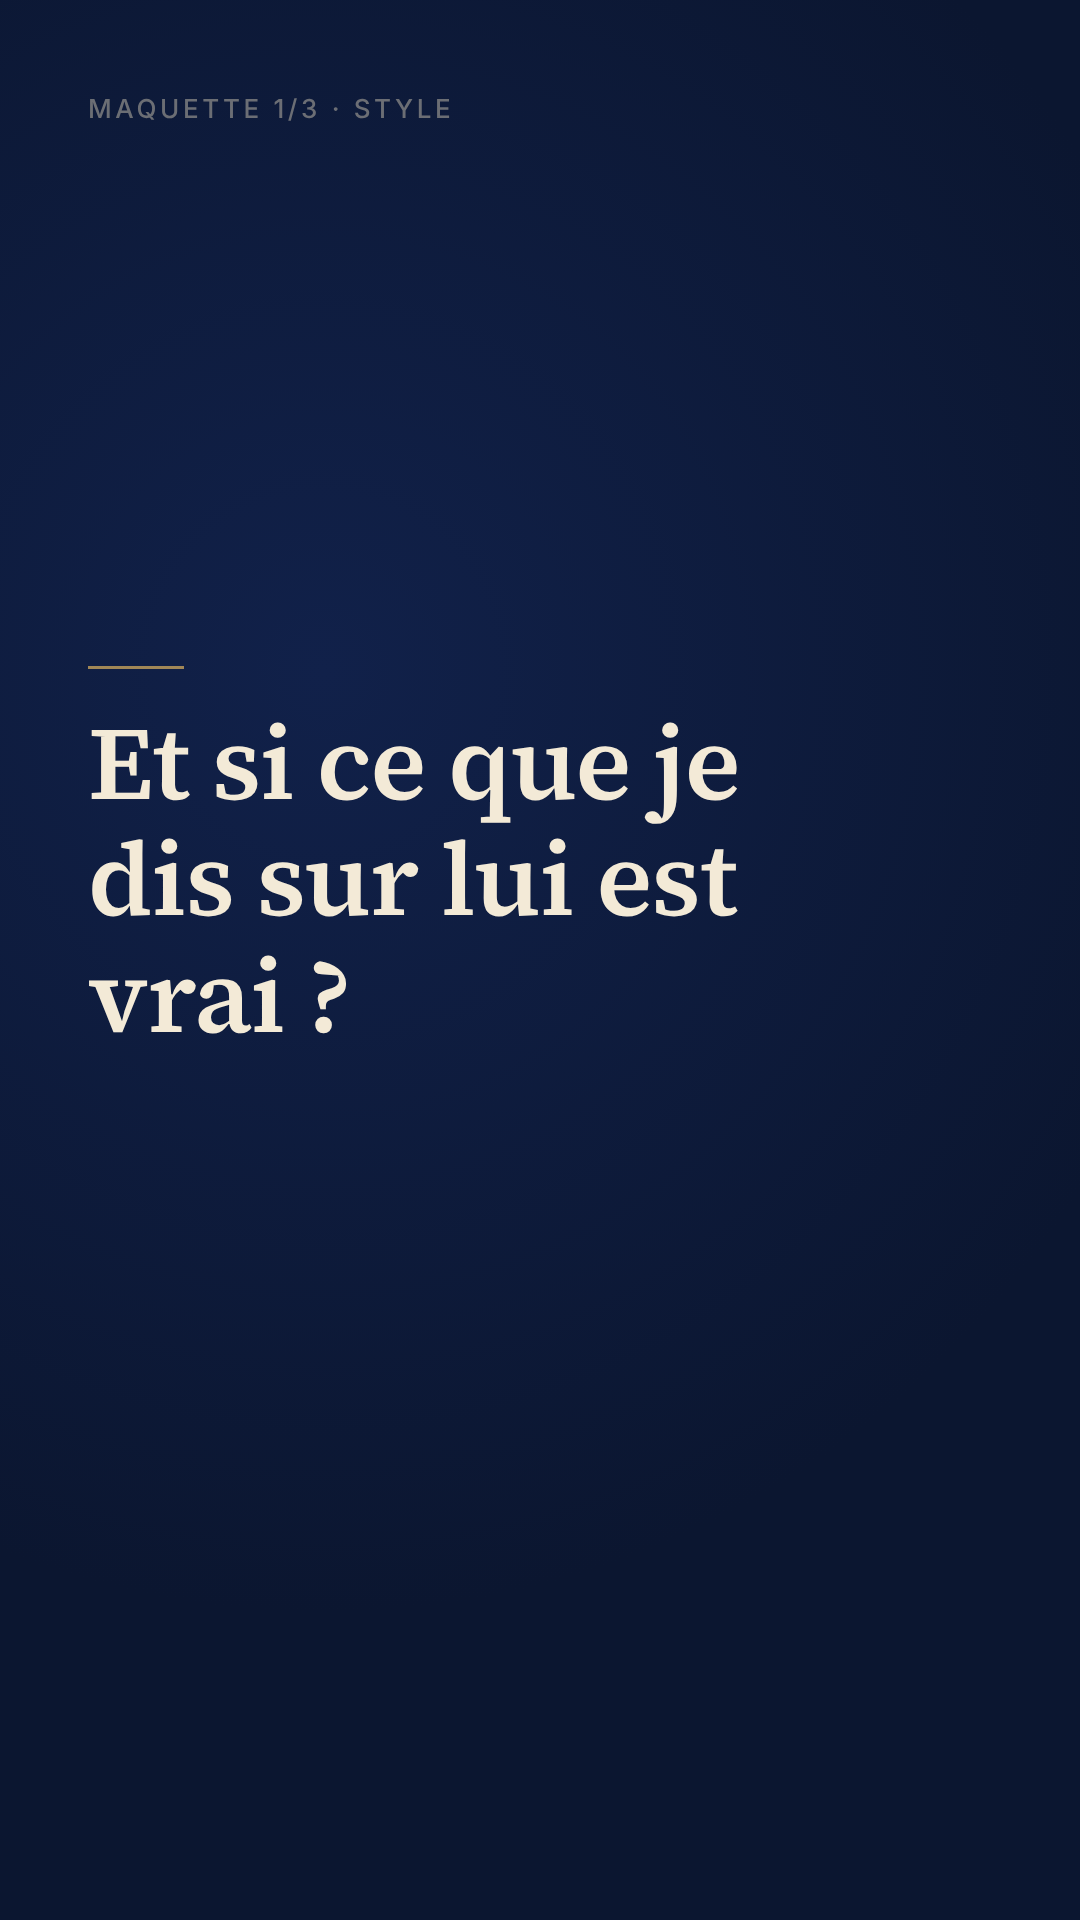
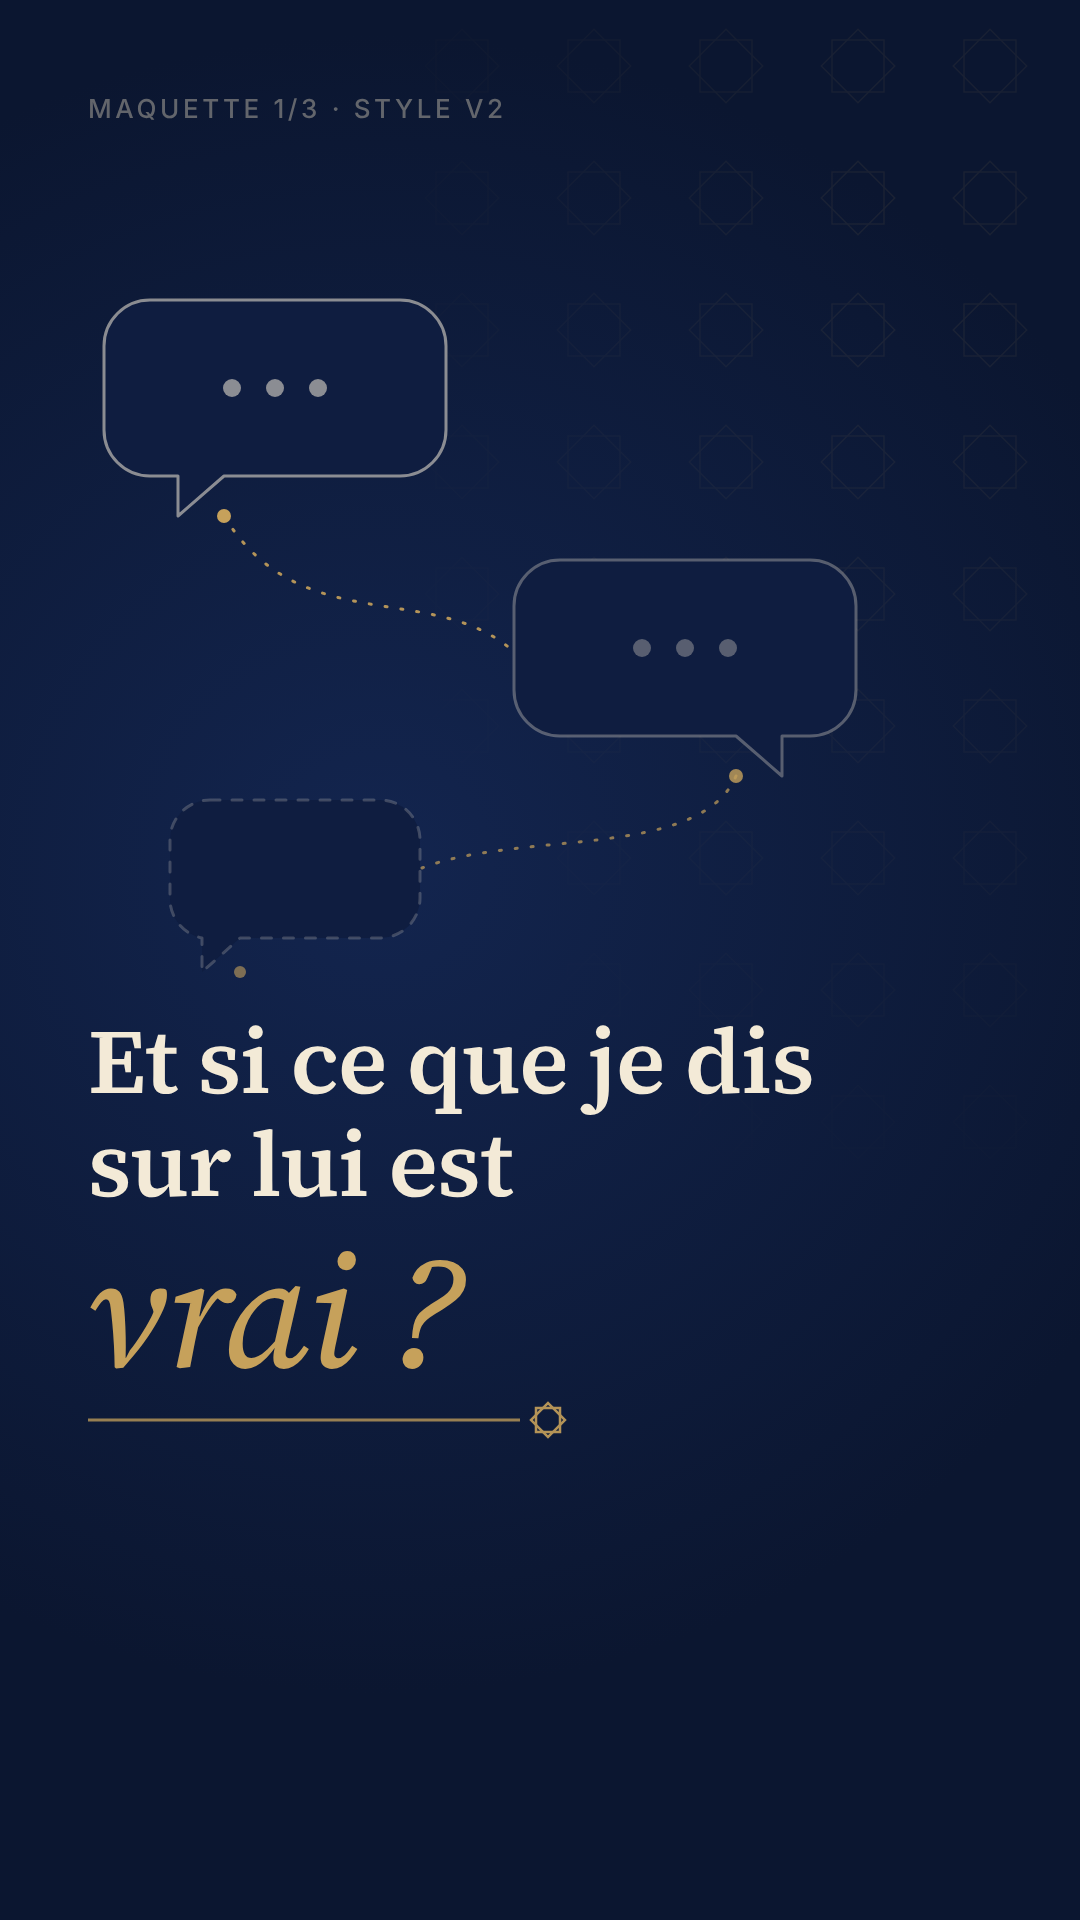
Épisode 1 : maquettes de style v2 (fil de la parole, étoile à huit branches)
Accroche avec bulles abstraites et « vrai ? » en doré, citation du hadith
dans une bulle, composition coranique encadrée avec emplacements réservés.
Consignes techniques déplacées dans styleframes/NOTES.md. Script inchangé.

Claude-Session: https://claude.ai/code/session_01EKcUgrFqQZhvCf1Hyer1Sd

diff --git a/ep01-medisance/styleframes/03-coran.html b/ep01-medisance/styleframes/03-coran.html
@@ -1,22 +1,59 @@
 <!doctype html>
-<html lang="fr"><head><meta charset="utf-8"><link rel="stylesheet" href="style.css"><title>03 coran</title></head>
+<html lang="fr"><head><meta charset="utf-8"><link rel="stylesheet" href="style.css"><title>03 coran</title>
+<style>
+  .label { left: 88px; width: 832px; top: 378px; text-align: center; }
+  .tag { font: 500 24px/1 "Inter", sans-serif; letter-spacing: .14em; text-transform: uppercase; color: var(--ivoire-doux); opacity: .75; }
+  .tag-ar { left: 88px; width: 832px; top: 724px; text-align: center; }
+  .tag-fr { left: 88px; width: 832px; top: 1236px; text-align: center; }
+  .ref { left: 88px; width: 832px; top: 1318px; text-align: center; }
+</style></head>
 <body>
-  <div class="maquette">Maquette 3/3 · style</div>
-  <div class="zone" style="gap:44px">
-    <p class="etiquette">Coran · 49:12 · extrait</p>
-    <div class="reserve rtl">
-      <p class="titre">Texte arabe · emplacement réservé</p>
-      <div class="ligne" style="width:100%;height:40px"></div>
-      <div class="ligne" style="width:82%;height:40px"></div>
-      <p class="note">À copier par script depuis la source vérifiée<br>(mushaf, lecture Hafs) · police coranique, RTL</p>
-    </div>
-    <div class="reserve">
-      <p class="titre">Traduction · emplacement réservé</p>
-      <div class="ligne" style="width:100%"></div>
-      <div class="ligne" style="width:94%"></div>
-      <div class="ligne" style="width:72%"></div>
-      <p class="note">Extrait à relire sur l'édition Hamidullah retenue<br>avant d'être affiché</p>
-    </div>
-    <p class="reference"><strong>Traduction du sens</strong><br>Muhammad Hamidullah</p>
-  </div>
+  <svg class="decor" viewBox="0 0 1080 1920" aria-hidden="true">
+    <defs>
+      <pattern id="trame" width="132" height="132" patternUnits="userSpaceOnUse">
+        <g transform="translate(66 66)" fill="none" stroke="#c6a15b" stroke-width="1.4">
+          <rect x="-26" y="-26" width="52" height="52"/><rect x="-26" y="-26" width="52" height="52" transform="rotate(45)"/>
+        </g>
+      </pattern>
+      <radialGradient id="fondu" cx="50%" cy="50%" r="62%"><stop offset=".55" stop-color="#fff" stop-opacity="0"/><stop offset="1" stop-color="#fff" stop-opacity="1"/></radialGradient>
+      <mask id="m"><rect width="1080" height="1920" fill="url(#fondu)"/></mask>
+      <g id="etoile"><rect x="-14" y="-14" width="28" height="28"/><rect x="-14" y="-14" width="28" height="28" transform="rotate(45)"/></g>
+    </defs>
+    <rect width="1080" height="1920" fill="url(#trame)" opacity=".08" mask="url(#m)"/>
+
+    <!-- Cadre ornemental : double filet doré, étoiles aux angles -->
+    <rect x="88" y="300" width="832" height="1140" rx="28" fill="#0f1d40" fill-opacity=".6" stroke="#c6a15b" stroke-opacity=".6" stroke-width="2.5"/>
+    <rect x="104" y="316" width="800" height="1108" rx="18" fill="none" stroke="#c6a15b" stroke-opacity=".22" stroke-width="1.5"/>
+    <g fill="#0b1630" stroke="#c6a15b" stroke-width="2.5">
+      <use href="#etoile" x="88" y="300"/><use href="#etoile" x="920" y="300"/>
+      <use href="#etoile" x="88" y="1440"/><use href="#etoile" x="920" y="1440"/>
+    </g>
+
+    <!-- Zone arabe : emplacement réservé (texte à insérer après vérification) -->
+    <g fill="#f3ead7" fill-opacity=".13">
+      <rect x="180" y="480" width="650" height="52" rx="26"/>
+      <rect x="290" y="580" width="540" height="52" rx="26"/>
+    </g>
+
+    <!-- Séparateur : le fil de la parole arrive sur l'étoile centrale -->
+    <path d="M28 820 C 120 820, 140 900, 250 900" fill="none" stroke="#c6a15b" stroke-width="3" stroke-dasharray="2 14"/>
+    <circle cx="28" cy="820" r="7" fill="#c6a15b"/>
+    <line x1="250" y1="900" x2="512" y2="900" stroke="#c6a15b" stroke-opacity=".6" stroke-width="2"/>
+    <line x1="568" y1="900" x2="830" y2="900" stroke="#c6a15b" stroke-opacity=".6" stroke-width="2"/>
+    <g transform="translate(540 900)" fill="none" stroke="#c6a15b" stroke-width="2.5"><use href="#etoile"/></g>
+
+    <!-- Zone traduction : emplacement réservé -->
+    <g fill="#f3ead7" fill-opacity=".13">
+      <rect x="170" y="990" width="670" height="30" rx="15"/>
+      <rect x="200" y="1048" width="610" height="30" rx="15"/>
+      <rect x="170" y="1106" width="670" height="30" rx="15"/>
+      <rect x="290" y="1164" width="430" height="30" rx="15"/>
+    </g>
+  </svg>
+
+  <div class="maquette">Maquette 3/3 · style v2</div>
+  <p class="bloc etiquette label">Coran · 49:12 · extrait</p>
+  <p class="bloc tag tag-ar">Texte arabe · emplacement réservé</p>
+  <p class="bloc tag tag-fr">Traduction · emplacement réservé</p>
+  <p class="bloc reference ref"><strong>Traduction du sens</strong><br>Muhammad Hamidullah</p>
 </body></html>

diff --git a/ep01-medisance/styleframes/01-accroche.html b/ep01-medisance/styleframes/01-accroche.html
@@ -1,9 +1,48 @@
 <!doctype html>
-<html lang="fr"><head><meta charset="utf-8"><link rel="stylesheet" href="style.css"><title>01 accroche</title></head>
+<html lang="fr"><head><meta charset="utf-8"><link rel="stylesheet" href="style.css"><title>01 accroche</title>
+<style>
+  .question { left: 88px; top: 1010px; width: 820px; font: 600 92px/1.12 "Source Serif 4", serif; letter-spacing: -.01em; }
+  .question .vrai { display: block; margin-top: 18px; font: 400 italic 156px/1 "Source Serif 4", serif; color: var(--or); }
+</style></head>
 <body>
-  <div class="maquette">Maquette 1/3 · style</div>
-  <div class="zone">
-    <div class="filet" style="margin-top:0"></div>
-    <p class="accroche">Et si ce que je dis sur lui est vrai&nbsp;?</p>
-  </div>
+  <svg class="decor" viewBox="0 0 1080 1920" aria-hidden="true">
+    <defs>
+      <!-- Trame commune : étoiles à huit branches au trait -->
+      <pattern id="trame" width="132" height="132" patternUnits="userSpaceOnUse">
+        <g transform="translate(66 66)" fill="none" stroke="#c6a15b" stroke-width="1.4">
+          <rect x="-26" y="-26" width="52" height="52"/><rect x="-26" y="-26" width="52" height="52" transform="rotate(45)"/>
+        </g>
+      </pattern>
+      <radialGradient id="fondu" cx="85%" cy="12%" r="55%"><stop offset="0" stop-color="#fff" stop-opacity="1"/><stop offset="1" stop-color="#fff" stop-opacity="0"/></radialGradient>
+      <mask id="m"><rect width="1080" height="1920" fill="url(#fondu)"/></mask>
+    </defs>
+    <rect width="1080" height="1920" fill="url(#trame)" opacity=".09" mask="url(#m)"/>
+
+    <!-- Bulles abstraites : la parole qui passe de l'un à l'autre, de plus en plus pâle -->
+    <g fill="#0f1d40" stroke-linecap="round" stroke-linejoin="round">
+      <path d="M150 300 h250 a46 46 0 0 1 46 46 v84 a46 46 0 0 1 -46 46 h-176 l-46 40 v-40 h-28 a46 46 0 0 1 -46 -46 v-84 a46 46 0 0 1 46 -46 z"
+            stroke="#f3ead7" stroke-opacity=".55" stroke-width="3"/>
+      <g fill="#f3ead7" fill-opacity=".55"><circle cx="232" cy="388" r="9"/><circle cx="275" cy="388" r="9"/><circle cx="318" cy="388" r="9"/></g>
+
+      <path d="M560 560 h250 a46 46 0 0 1 46 46 v84 a46 46 0 0 1 -46 46 h-28 v40 l-46 -40 h-176 a46 46 0 0 1 -46 -46 v-84 a46 46 0 0 1 46 -46 z"
+            stroke="#f3ead7" stroke-opacity=".32" stroke-width="3"/>
+      <g fill="#f3ead7" fill-opacity=".32"><circle cx="642" cy="648" r="9"/><circle cx="685" cy="648" r="9"/><circle cx="728" cy="648" r="9"/></g>
+
+      <path d="M210 800 h170 a40 40 0 0 1 40 40 v58 a40 40 0 0 1 -40 40 h-140 l-38 34 v-34 h-0 a40 40 0 0 1 -32 -40 v-58 a40 40 0 0 1 40 -40 z"
+            stroke="#f3ead7" stroke-opacity=".22" stroke-width="3" stroke-dasharray="10 12"/>
+
+      <!-- Le fil de la parole : relie les bulles et descend vers « vrai ? » -->
+      <path fill="none" d="M224 516 C 300 640, 430 580, 512 650" stroke="#c6a15b" stroke-width="3" stroke-dasharray="2 14" opacity=".9"/>
+      <path fill="none" d="M736 776 C 700 860, 520 830, 422 868" stroke="#c6a15b" stroke-width="3" stroke-dasharray="2 14" opacity=".7"/>
+      <g fill="#c6a15b"><circle cx="224" cy="516" r="7"/><circle cx="736" cy="776" r="7" opacity=".8"/><circle cx="240" cy="972" r="6" opacity=".6"/></g>
+    </g>
+    <!-- Filet sous « vrai ? » -->
+    <line x1="88" y1="1420" x2="520" y2="1420" stroke="#c6a15b" stroke-width="3" opacity=".75"/>
+    <g transform="translate(548 1420)" fill="none" stroke="#c6a15b" stroke-width="2.5" opacity=".9">
+      <rect x="-12" y="-12" width="24" height="24"/><rect x="-12" y="-12" width="24" height="24" transform="rotate(45)"/>
+    </g>
+  </svg>
+
+  <div class="maquette">Maquette 1/3 · style v2</div>
+  <p class="bloc question">Et si ce que je dis sur lui est <span class="vrai">vrai&nbsp;?</span></p>
 </body></html>

diff --git a/ep01-medisance/styleframes/02-hadith.html b/ep01-medisance/styleframes/02-hadith.html
@@ -1,13 +1,44 @@
 <!doctype html>
-<html lang="fr"><head><meta charset="utf-8"><link rel="stylesheet" href="style.css"><title>02 hadith</title></head>
+<html lang="fr"><head><meta charset="utf-8"><link rel="stylesheet" href="style.css"><title>02 hadith</title>
+<style>
+  .label { left: 88px; top: 452px; }
+  .citation { left: 148px; top: 610px; width: 712px; font: 400 60px/1.3 "Source Serif 4", serif; }
+  .ref { left: 88px; top: 1112px; }
+</style></head>
 <body>
-  <div class="maquette">Maquette 2/3 · style</div>
-  <div class="zone">
-    <p class="etiquette">Hadith · extrait</p>
-    <div class="filet"></div>
-    <p class="citation" id="citation">«&nbsp;[…] C'est que tu évoques ton frère en des termes qu’il répugnerait.&nbsp;»</p>
-    <div class="filet"></div>
-    <p class="reference"><strong>Sahih Muslim 2589</strong> · authentique<br>Traduction : HadeethEnc</p>
-  </div>
+  <svg class="decor" viewBox="0 0 1080 1920" aria-hidden="true">
+    <defs>
+      <pattern id="trame" width="132" height="132" patternUnits="userSpaceOnUse">
+        <g transform="translate(66 66)" fill="none" stroke="#c6a15b" stroke-width="1.4">
+          <rect x="-26" y="-26" width="52" height="52"/><rect x="-26" y="-26" width="52" height="52" transform="rotate(45)"/>
+        </g>
+      </pattern>
+      <radialGradient id="fondu" cx="12%" cy="88%" r="50%"><stop offset="0" stop-color="#fff" stop-opacity="1"/><stop offset="1" stop-color="#fff" stop-opacity="0"/></radialGradient>
+      <mask id="m"><rect width="1080" height="1920" fill="url(#fondu)"/></mask>
+    </defs>
+    <rect width="1080" height="1920" fill="url(#trame)" opacity=".09" mask="url(#m)"/>
+
+    <g stroke-linecap="round" stroke-linejoin="round">
+      <!-- Petite bulle d'origine, reprise de l'accroche -->
+      <path d="M640 250 h170 a40 40 0 0 1 40 40 v56 a40 40 0 0 1 -40 40 h-24 v34 l-38 -34 h-108 a40 40 0 0 1 -40 -40 v-56 a40 40 0 0 1 40 -40 z"
+            fill="#0f1d40" stroke="#f3ead7" stroke-opacity=".4" stroke-width="3"/>
+      <g fill="#f3ead7" fill-opacity=".4"><circle cx="688" cy="318" r="8"/><circle cx="725" cy="318" r="8"/><circle cx="762" cy="318" r="8"/></g>
+      <!-- Le fil de la parole, jusqu'à la grande bulle de la citation -->
+      <path d="M786 432 C 780 480, 700 500, 640 528" fill="none" stroke="#c6a15b" stroke-width="3" stroke-dasharray="2 14"/>
+      <circle cx="786" cy="432" r="7" fill="#c6a15b"/>
+      <!-- Grande bulle qui porte la citation : contour doré discret -->
+      <path d="M128 528 h752 a48 48 0 0 1 48 48 v370 a48 48 0 0 1 -48 48 h-632 l-58 52 v-52 h-62 a48 48 0 0 1 -48 -48 v-370 a48 48 0 0 1 48 -48 z"
+            fill="#0f1d40" fill-opacity=".55" stroke="#c6a15b" stroke-opacity=".55" stroke-width="2.5"/>
+      <!-- Ornement : étoile à huit branches sur le bord bas -->
+      <g transform="translate(880 994)" fill="#0b1630" stroke="#c6a15b" stroke-width="2.5">
+        <rect x="-14" y="-14" width="28" height="28"/><rect x="-14" y="-14" width="28" height="28" transform="rotate(45)"/>
+      </g>
+    </g>
+  </svg>
+
+  <div class="maquette">Maquette 2/3 · style v2</div>
+  <p class="bloc etiquette label">Hadith · extrait</p>
+  <p class="bloc citation" id="citation">«&nbsp;[…] C'est que tu évoques ton frère en des termes qu’il répugnerait.&nbsp;»</p>
+  <p class="bloc reference ref"><strong>Sahih Muslim 2589</strong> · authentique<br>Traduction : HadeethEnc</p>
   <!-- Le texte de la citation est inséré par build-styleframes.py, copié depuis la source enregistrée. -->
 </body></html>

diff --git a/ep01-medisance/styleframes/style.css b/ep01-medisance/styleframes/style.css
@@ -1,5 +1,7 @@
-/* Maquettes fixes ep01 : bleu nuit, ivoire, doré discret. 1080×1920, zone sûre TikTok indicative :
-   220 px en haut, 420 px en bas, 160 px à droite. */
+/* Maquettes fixes ep01, version 2 : bleu nuit, ivoire, doré discret. 1080×1920.
+   Zone sûre TikTok indicative : 220 px en haut, 420 px en bas, 160 px à droite.
+   Motif commun : « le fil de la parole » (ligne dorée à nœuds qui relie des bulles abstraites)
+   et l'étoile à huit branches (trame discrète, ornement). Voir NOTES.md. */
 @font-face { font-family: "Source Serif 4"; font-weight: 400; src: url(../assets/fonts/source-serif-4-latin-400-normal.woff2); }
 @font-face { font-family: "Source Serif 4"; font-weight: 600; src: url(../assets/fonts/source-serif-4-latin-600-normal.woff2); }
 @font-face { font-family: "Source Serif 4"; font-weight: 400; font-style: italic; src: url(../assets/fonts/source-serif-4-latin-400-italic.woff2); }
@@ -9,58 +11,30 @@
 
 :root {
   --nuit: #0b1630;
-  --nuit-2: #11214a;
+  --nuit-2: #13254f;
   --ivoire: #f3ead7;
   --ivoire-doux: #b9b3a5;
   --or: #c6a15b;
-  --or-pale: rgba(198, 161, 91, .45);
 }
 * { box-sizing: border-box; margin: 0; padding: 0; }
 html, body { width: 1080px; height: 1920px; }
 html { background: var(--nuit); }
 body {
-  background: radial-gradient(120% 70% at 30% 35%, var(--nuit-2) 0%, var(--nuit) 70%);
+  background: radial-gradient(110% 60% at 35% 45%, var(--nuit-2) 0%, var(--nuit) 72%);
   color: var(--ivoire);
   font-family: "Inter", sans-serif;
   position: relative;
   overflow: hidden;
 }
-/* Mention de maquette, dans la bande haute réservée à l'interface TikTok */
+svg.decor { position: absolute; inset: 0; width: 1080px; height: 1920px; }
 .maquette {
   position: absolute; top: 96px; left: 88px;
   font: 500 26px/1 "Inter", sans-serif; letter-spacing: .14em; text-transform: uppercase;
-  color: var(--ivoire-doux); opacity: .55;
-}
-/* Zone utile : à gauche 88 px, à droite 160 + 32 px, haut 220, bas 420 */
-.zone {
-  position: absolute; top: 220px; bottom: 420px; left: 88px; right: 192px;
-  display: flex; flex-direction: column; justify-content: center;
+  color: var(--ivoire-doux); opacity: .5;
 }
 .etiquette {
-  font: 600 30px/1.2 "Inter", sans-serif; letter-spacing: .16em; text-transform: uppercase;
-  color: var(--or);
+  font: 600 28px/1.2 "Inter", sans-serif; letter-spacing: .16em; text-transform: uppercase; color: var(--or);
 }
-.filet { width: 96px; height: 3px; background: var(--or); opacity: .8; margin: 36px 0; }
-.accroche {
-  font: 600 104px/1.12 "Source Serif 4", serif; letter-spacing: -.01em;
-}
-.citation {
-  font: 400 70px/1.28 "Source Serif 4", serif;
-}
-.reference {
-  font: 500 36px/1.45 "Inter", sans-serif; color: var(--ivoire-doux);
-}
+.reference { font: 500 32px/1.45 "Inter", sans-serif; color: var(--ivoire-doux); }
 .reference strong { color: var(--ivoire); font-weight: 600; }
-
-/* Emplacements réservés (texte à vérifier) */
-.reserve {
-  border: 3px dashed var(--or-pale); border-radius: 14px;
-  padding: 34px 36px; display: flex; flex-direction: column; gap: 22px;
-}
-.reserve .titre {
-  font: 600 28px/1.3 "Inter", sans-serif; letter-spacing: .12em; text-transform: uppercase; color: var(--or);
-}
-.reserve .note { font: 400 30px/1.4 "Inter", sans-serif; color: var(--ivoire-doux); }
-.ligne { height: 26px; border-radius: 13px; background: rgba(243, 234, 215, .14); }
-.rtl { align-items: flex-end; text-align: right; }
-.rtl .ligne { align-self: flex-end; }
+.bloc { position: absolute; }

diff --git a/ep01-medisance/styleframes/build-styleframes.py b/ep01-medisance/styleframes/build-styleframes.py
@@ -24,7 +24,7 @@ citation = f"«&nbsp;[…] {html.escape(extrait, quote=False)}&nbsp;»"
 
 page = ICI / "02-hadith.html"
 contenu = page.read_text(encoding="utf-8")
-contenu = re.sub(r'(<p class="citation" id="citation">).*?(</p>)', lambda m: m.group(1) + citation + m.group(2),
+contenu = re.sub(r'(<p [^>]*id="citation">).*?(</p>)', lambda m: m.group(1) + citation + m.group(2),
                  contenu, count=1, flags=re.S)
 page.write_text(contenu, encoding="utf-8")
 

diff --git a/ep01-medisance/styleframes/NOTES.md b/ep01-medisance/styleframes/NOTES.md
@@ -1,0 +1,32 @@
+# Maquettes fixes ep01 : notes (version 2 du style)
+
+Maquettes de **style** : elles ne valident pas l'exactitude du contenu. Script inchangé (révision 6, `serie-coran/episodes/ep01/SCRIPT.md`).
+Export : `python3 -I ep01-medisance/styleframes/build-styleframes.py` depuis la racine (Chromium local, sans réseau).
+
+## Motif commun
+- **Le fil de la parole** : ligne dorée en pointillé, partant d'un nœud (petit disque doré), qui relie des bulles
+  abstraites (contours ivoire, trois points). Accroche : la parole passe de bulle en bulle et pâlit (la dernière est
+  en pointillé), puis aboutit au filet sous « vrai ? ». Hadith : le fil part d'une petite bulle et entre dans la grande
+  bulle qui porte la citation. Coran : le fil arrive sur l'étoile centrale du séparateur, entre arabe et traduction.
+- **L'étoile à huit branches** (deux carrés superposés, au trait) : trame très discrète en fond (opacité 8-9 %,
+  fondue), ornement ponctuel (fin du filet, coin de bulle, angles du cadre, séparateur).
+- Pas de particules, pas de halo ; un seul dégradé radial très doux sur le fond. Aucune figure humaine, aucune scène
+  historique, aucune illustration de la comparaison du verset.
+- Pistes pour l'animation (non réalisées, à valider) : le fil se trace, les bulles apparaissent l'une après l'autre,
+  les étoiles de la trame restent fixes ; le même fil assure les transitions d'un écran à l'autre.
+
+## Emplacements réservés (maquette 3)
+Consignes retirées du visuel :
+- **Texte arabe** : à copier par script depuis la source vérifiée (comparaison mot par mot avec un mushaf imprimé,
+  rasm uthmani, lecture Hafs) ; jamais retapé ni corrigé à la main ; police coranique adaptée à choisir (rendu à
+  contrôler sur image fixe) ; RTL ; jamais fragmenté, déformé ou animé lettre par lettre.
+- **Traduction** : extrait de 49:12 à relire sur l'édition Hamidullah retenue (et son droit d'usage) avant affichage.
+- Les barres pâles indiquent seulement l'encombrement prévu (2 lignes d'arabe, 4 lignes de traduction).
+
+## Hadith (maquette 2)
+Extrait copié par script depuis `serie-coran/episodes/ep01/sources-brutes/ep01-hadeethenc-5326.txt` ; « […] »
+signale la coupure. Apostrophes mixtes (' et ’) conservées telles qu'elles figurent dans la traduction HadeethEnc.
+
+## Zone sûre
+Contenu entre 220 px (haut) et 1500 px (bas), à gauche de 920 px. La mention « Maquette n/3 » est dans la bande haute
+couverte par l'interface et disparaîtra de la version finale.

diff --git a/serie-coran/episodes/ep01/STORYBOARD.md b/serie-coran/episodes/ep01/STORYBOARD.md
@@ -22,7 +22,7 @@ Codes visuels constants : **citation coranique** = cadre fin doré + mention « 
 Son : voix seule. Bruitage éventuel : un seul son doux au plan 4 (case « médire »), à valider. Pas de musique.
 
 ## Étape C : maquettes fixes de style (2026-10-20)
-`ep01-medisance/styleframes/` : 01-accroche, 02-hadith, 03-coran (HTML + PNG 1080×1920, export Chromium local par
+`ep01-medisance/styleframes/` (version 2 du style, notes dans `NOTES.md`) : 01-accroche, 02-hadith, 03-coran (HTML + PNG 1080×1920, export Chromium local par
 `build-styleframes.py`). Elles valident le style, pas l'exactitude du contenu : le texte arabe et la traduction de
 49:12 sont des emplacements réservés tant que leur vérification reste ouverte. L'extrait du hadith est copié par script
 depuis `sources-brutes/ep01-hadeethenc-5326.txt`. Polices : Source Serif 4 et Inter (SIL OFL 1.1, paquets npm
